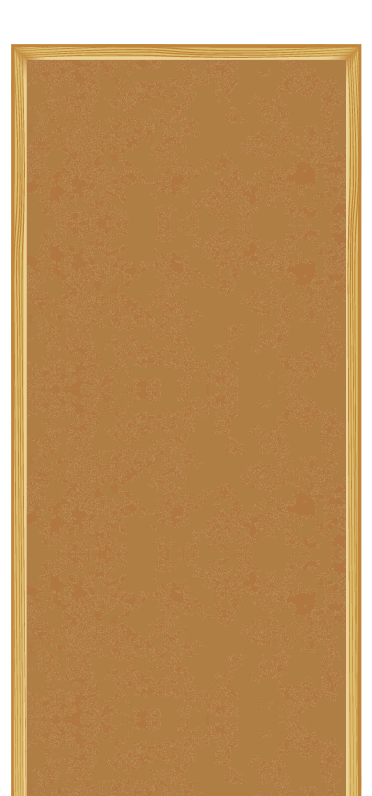
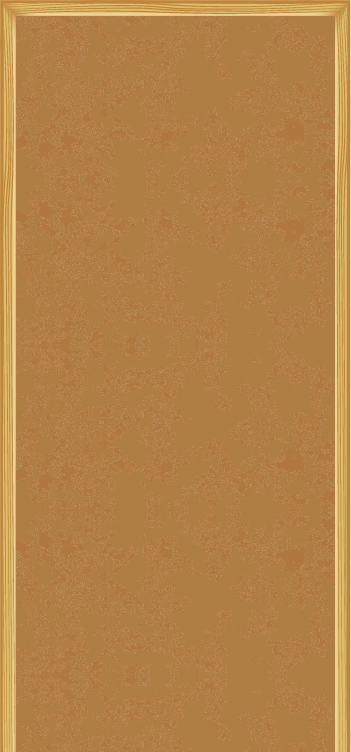
Home Page UX improved
Images scale appropriately with different size screens now.
Added wonderstories logo

Changed region(s): [[0.0, 0.0, 1.0, 1.0]]

diff --git a/src/pages/Home.vue b/src/pages/Home.vue
@@ -1,38 +1,57 @@
 <template>
-  <div class="blueBackground text-center">
-    <div :style="{'padding-top': this.$store.state.AspectRatio > 2 ? '20vh' : '10vh'}"/>
-    <div :class="[this.$store.state.AspectRatio > 1 ? this.$store.state.AspectRatio > 2 ?
-          'ChalkboardTall' : 'ChalkboardMid' : 'ChalkboardWide']" class="ChalkboardBasics">
-      <GradeSelector v-for="Grade in GradeArray" :key="Grade" :Grade="Grade"/>
-      <div class="text-black textThickness">Choose your Reading Grade</div>
+  <the-background>
+    <div class="topPadding">
+      <img
+        alt=""
+        src="../assets/Images/WonderStories_Logo_BlackAlt.png"
+        class="NavWonderLogo"
+      />
     </div>
-  </div>
+    <div class="ChalkboardBasics ChalkboardWide">
+      <div class="gradeGrid">
+        <GradeSelector
+          v-for="Grade in GradeArray"
+          :key="Grade"
+          :Grade="Grade"
+        />
+      </div>
+    </div>
+  </the-background>
 </template>
 
 <script>
-import GradeSelector from '@/molecules/GradeSelector.vue';
+import GradeSelector from "@/molecules/GradeSelector.vue";
+import TheBackground from "@/components/ux/TheBackground.vue";
 
 export default {
   components: {
     GradeSelector,
+    TheBackground,
   },
   data() {
-    const GradeArray = ['gradePreK', 'gradeK', 'grade1', 'grade2', 'grade3', 'grade4', 'grade5', 'grade6'];
+    const GradeArray = [
+      "gradePreK",
+      "gradeK",
+      "grade1",
+      "grade2",
+      "grade3",
+      "grade4",
+      "grade5",
+      "grade6",
+    ];
     return { GradeArray };
   },
   async mounted() {
     await this.getApiBooks();
   },
   methods: {
-    getApiBooks: async function() {
+    getApiBooks: async function () {
       try {
-        await this.$store.dispatch('setBookList');
-        await this.$store.dispatch('fetchGradeFilters');
-      } catch {
-
-      }
-    }
-  }
+        await this.$store.dispatch("setBookList");
+        await this.$store.dispatch("fetchGradeFilters");
+      } catch {}
+    },
+  },
 };
 </script>
 
@@ -42,6 +61,13 @@ export default {
   height: 100vh;
   width: 100vw;
 }
+.topPadding {
+  height: 20vh;
+  display: flex;
+  justify-content: start;
+  align-items: center;
+}
+
 .ChalkboardBasics {
   margin-left: 5vw;
   margin-right: 5vw;
@@ -50,11 +76,13 @@ export default {
   overflow: hidden;
 }
 .ChalkboardWide {
-  height: 90vh;
+  height: 80vh;
   padding-left: 8vw;
   padding-right: 8vw;
-  padding-top: 5vw;
+  padding-top: 8vh;
   background-image: url("../assets/Images/Chalkboard.png");
+  background-repeat: no-repeat;
+  background-size: 100% 110%;
 }
 .ChalkboardMid {
   height: 90vh;
@@ -72,6 +100,63 @@ export default {
 }
 .textThickness {
   font-weight: 900;
-  font-size: min(3vw,5vh);
+  font-size: min(3vw, 5vh);
+}
+
+.NavWonderLogo {
+  width: 300px;
+  object-fit: contain;
+  margin-left: 5%;
+}
+
+.gradeGrid {
+  display: grid;
+  grid-template-columns: repeat(4, 25%);
+  grid-template-rows: repeat(2, 45%);
+  justify-items: center;
+  align-items: center;
+  justify-content: center;
+
+  width: 100%;
+
+  padding-bottom: 10vh;
+}
+@media (max-aspect-ratio: 857/847) {
+  .gradeGrid {
+    grid-template-columns: repeat(3, 33%);
+    grid-template-rows: repeat(3, 33%);
+  }
+  .ChalkboardWide {
+    background-image: url("../assets/Images/phoneBoard.png");
+    padding-top: 5vh;
+    height: 85vh;
+  }
+  .topPadding {
+    height: 15vh;
+  }
+}
+
+@media (max-aspect-ratio: 510/824) {
+  .gradeGrid {
+    grid-template-columns: repeat(2, 50%);
+    grid-template-rows: repeat(4, 20%);
+    padding-bottom: 0%;
+  }
+  .ChalkboardWide {
+    background-image: url("../assets/Images/phoneBoard.png");
+    height: 90vh;
+    padding-left: 5vw;
+    padding-right: 5vw;
+  }
+  .topPadding {
+    height: 10vh;
+  }
+
+  .NavWonderLogo {
+    height: 5vh;
+    width: 40%;
+  }
 }
 </style>
+
+

diff --git a/src/molecules/GradeSelector.vue b/src/molecules/GradeSelector.vue
@@ -1,18 +1,10 @@
 <template>
-  <div class="d-inline-flex align-items-center justify-content-center">
-    <img
-      :class="[
-        this.$store.state.AspectRatio > 1
-          ? this.$store.state.AspectRatio > 1.5
-            ? 'GradeTall'
-            : 'GradeMid'
-          : 'GradeWide',
-      ]"
-      :src="require(`../assets/Images/${Grade}.svg`)"
-      @click="handleGradeDispatch"
-      alt=""
-    />
-  </div>
+  <img
+    class="GradeWide"
+    :src="require(`../assets/Images/${Grade}.svg`)"
+    @click="handleGradeDispatch"
+    alt=""
+  />
 </template>
 
 <script>
@@ -34,20 +26,9 @@ export default {
 </script>
 
 <style scoped>
-.GradeTall {
-  height: auto;
-  width: 28vw;
-}
-.GradeMid {
-  height: auto;
-  width: 25vw;
-}
 .GradeWide {
-  height: auto;
-  width: min(16vw, 32vh);
+  height: 100%;
 }
-.GradeTall:hover,
-.GradeMid:hover,
 .GradeWide:hover {
   cursor: pointer;
   transform: scale(1.1);

diff --git a/src/pages/BooksList.vue b/src/pages/BooksList.vue
@@ -1,5 +1,5 @@
 <template>
-  <div>
+  <div class="noSelectText">
     <div class="navBarColor navBarHeight row text-center">
       <div class="p-0 m-0">
         <router-link to="/">
@@ -193,6 +193,10 @@ export default {
 
 body {
   overflow-x: hidden;
+}
+
+.noSelectText {
+  user-select: none;
 }
 
 @media (max-width: 1400px) {
